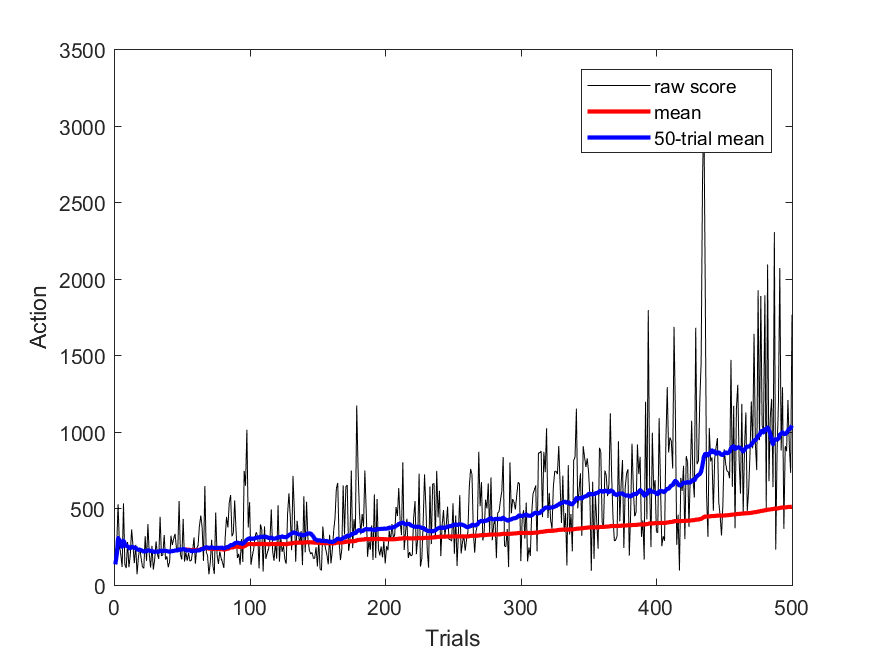
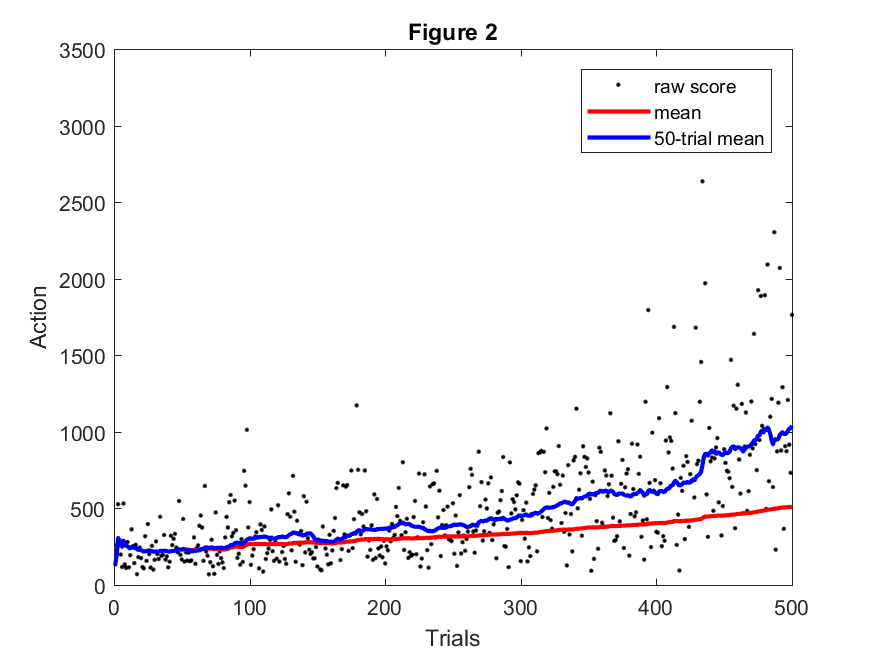
Updated plot script to scatter plot raw data and apply a title

diff --git a/figures/make_figures.m b/figures/make_figures.m
@@ -1,8 +1,8 @@
-filenames = ["Action", "Kill", "Reward"];
+filenames = ["Reward", "Action", "Kill"];
 average_length = 50;
-for filename = filenames
+for index = 1:length(filenames)
     figure()
-    y = dlmread([char(filename), '_statistics.txt']).';
+    y = dlmread([char(filenames(index)), '_statistics.txt']).';
     x = 1:length(y);
     avg = zeros(size(x));
     rolling_avg = zeros(size(x));
@@ -22,7 +22,7 @@ for filename = filenames
     l_avg = 'mean';
     l_roll = [num2str(average_length), '-trial mean'];
     
-    p_raw = plot(x,y,'color', char(c(1)));
+    p_raw = plot(x,y,'.','color', char(c(1)));
     legend(l_raw);
     hold on
     p_avg = plot(x,avg,'DisplayName',l_avg, 'color', char(c(2)), 'LineWidth',2);
@@ -33,6 +33,7 @@ for filename = filenames
     
     
     xlabel('Trials')
-    ylabel(char(filename))
-    print(char(filename), '-dpng')
+    ylabel(char(filenames(index)))
+    title(['Figure ', num2str(index)])
+    print(char(filenames(index)), '-dpng')
 end
